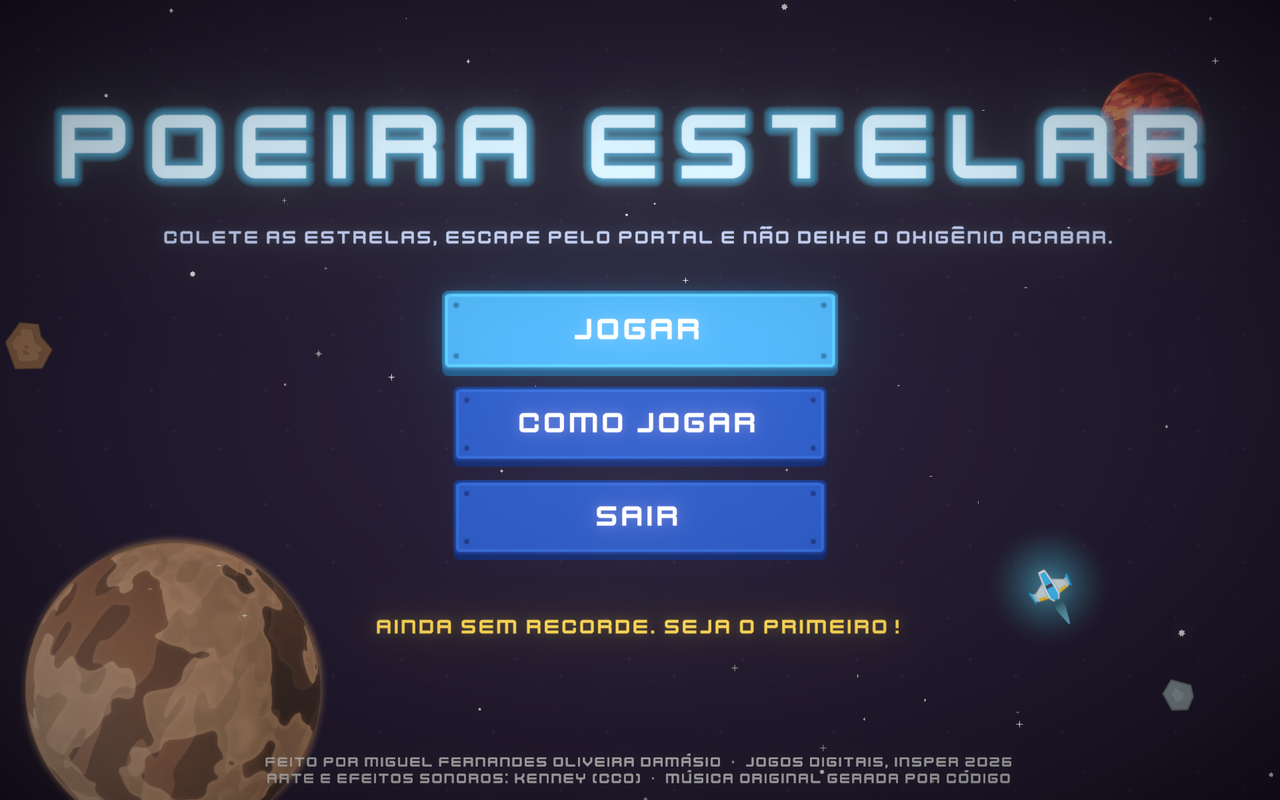
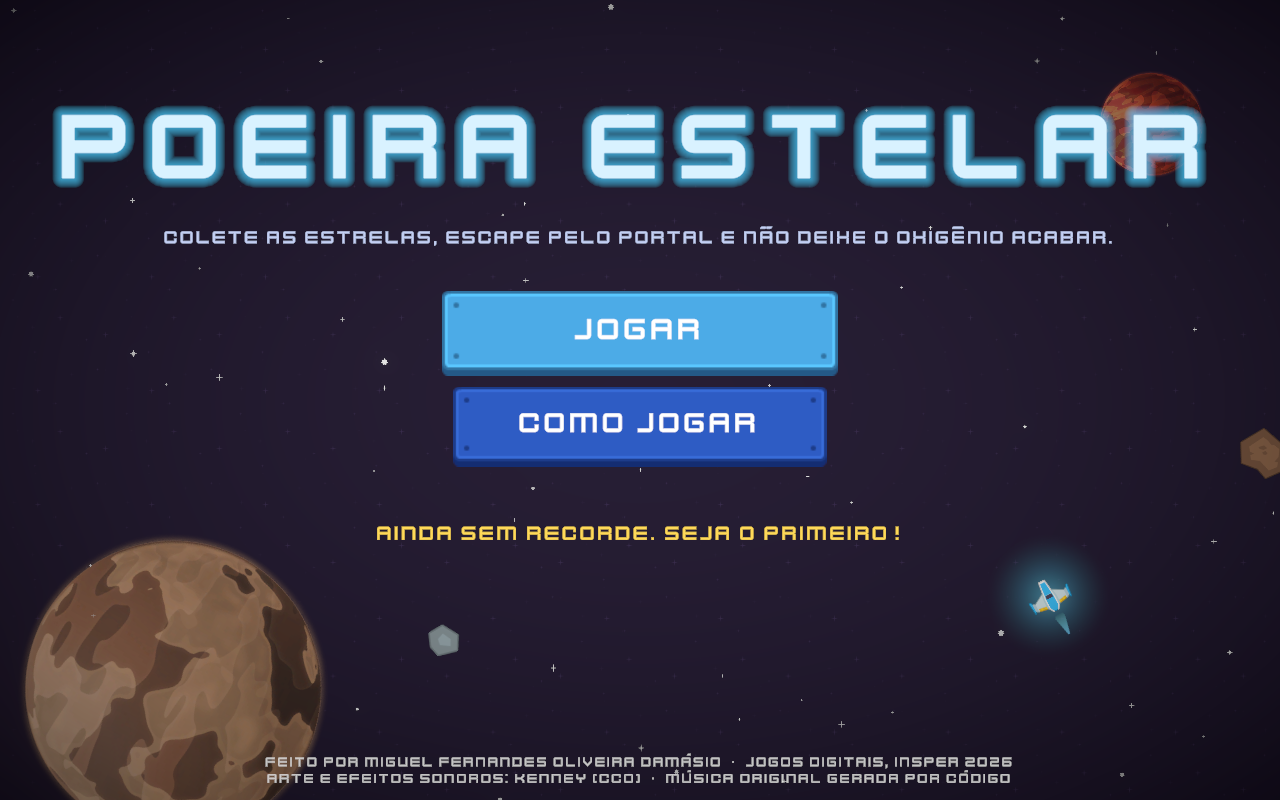
Página do itch.io, template WebGL em tela cheia e GIF de gameplay
- Template WebGL próprio: o jogo ocupa a janela inteira (sem rodapé que cortava
  o HUD no embed 960x600) e tela de carregamento no tema do jogo
- No navegador, o recorde do menu sobe para o lugar do botão Sair
- README com link do itch.io, GIF de gameplay e prints

diff --git a/Assets/WebGLTemplates/PoeiraEstelar/index.html b/Assets/WebGLTemplates/PoeiraEstelar/index.html
@@ -1,0 +1,72 @@
+<!DOCTYPE html>
+<html lang="pt-br">
+  <head>
+    <meta charset="utf-8">
+    <meta name="viewport" content="width=device-width, height=device-height, initial-scale=1.0, user-scalable=no">
+    <title>{{{ PRODUCT_NAME }}}</title>
+    <link rel="icon" type="image/png" href="TemplateData/favicon.png">
+    <style>
+      @font-face { font-family: "Kenney Future"; src: url("TemplateData/KenneyFuture.ttf"); }
+      html, body { margin: 0; padding: 0; width: 100%; height: 100%; overflow: hidden; background: #120d22; }
+      #unity-canvas { position: fixed; inset: 0; width: 100%; height: 100%; display: block; background: #120d22; outline: none; }
+      #loading {
+        position: fixed; inset: 0; display: flex; flex-direction: column; align-items: center; justify-content: center;
+        gap: 22px; background: radial-gradient(circle at 50% 45%, #2a1f4a 0%, #120d22 70%);
+        font-family: "Kenney Future", system-ui, sans-serif; color: #dff4ff; text-align: center;
+      }
+      #loading h1 { margin: 0; font-size: clamp(28px, 7vw, 64px); letter-spacing: 0.08em; text-shadow: 0 0 18px #4fc8ff; }
+      #loading p { margin: 0; font-size: clamp(11px, 2vw, 15px); color: #ffd54a; letter-spacing: 0.06em; }
+      #bar { width: min(60vw, 420px); height: 12px; border: 2px solid #5ae6ff; box-shadow: 0 0 12px #5ae6ff66; }
+      #fill { width: 0; height: 100%; background: #5ae6ff; transition: width 0.15s; }
+      #error { display: none; max-width: 80vw; color: #ff8a8a; font-family: system-ui, sans-serif; font-size: 14px; }
+    </style>
+  </head>
+  <body>
+    <canvas id="unity-canvas" tabindex="-1"></canvas>
+    <div id="loading">
+      <h1>POEIRA ESTELAR</h1>
+      <div id="bar"><div id="fill"></div></div>
+      <p>Carregando a estação...</p>
+      <div id="error"></div>
+    </div>
+    <script src="Build/{{{ LOADER_FILENAME }}}"></script>
+    <script>
+      var canvas = document.querySelector("#unity-canvas");
+      var loading = document.querySelector("#loading");
+      var fill = document.querySelector("#fill");
+
+      // Garante que o teclado vai para o jogo ao clicar (inclusive dentro do iframe do itch.io).
+      canvas.addEventListener("pointerdown", function () { canvas.focus(); });
+
+      createUnityInstance(canvas, {
+        arguments: [],
+#if PROGRESSIVE_ASSET_LOADING
+        primaryDataUrls: {{{ JSON.stringify(PRIMARY_DATA_FILES) }}},
+        secondaryDataUrls: {{{ JSON.stringify(SECONDARY_DATA_FILES) }}},
+#else
+        dataUrl: "Build/{{{ DATA_FILENAME }}}",
+#endif
+        frameworkUrl: "Build/{{{ FRAMEWORK_FILENAME }}}",
+#if USE_WASM
+        codeUrl: "Build/{{{ CODE_FILENAME }}}",
+#endif
+#if SYMBOLS_FILENAME
+        symbolsUrl: "Build/{{{ SYMBOLS_FILENAME }}}",
+#endif
+        streamingAssetsUrl: "StreamingAssets",
+        companyName: {{{ JSON.stringify(COMPANY_NAME) }}},
+        productName: {{{ JSON.stringify(PRODUCT_NAME) }}},
+        productVersion: {{{ JSON.stringify(PRODUCT_VERSION) }}},
+      }, function (progress) {
+        fill.style.width = (100 * progress) + "%";
+      }).then(function () {
+        loading.style.display = "none";
+        canvas.focus();
+      }).catch(function (message) {
+        var error = document.querySelector("#error");
+        error.style.display = "block";
+        error.textContent = "Não foi possível carregar o jogo: " + message;
+      });
+    </script>
+  </body>
+</html>

diff --git a/Assets/Scripts/UI/MainMenu.cs b/Assets/Scripts/UI/MainMenu.cs
@@ -25,8 +25,10 @@ public class MainMenu : MonoBehaviour
         backButton.onClick.AddListener(() => ShowHowTo(false));
         quitButton.onClick.AddListener(Application.Quit);
 
-        // No navegador (WebGL) não existe "sair do jogo".
-        quitButton.gameObject.SetActive(Application.platform != RuntimePlatform.WebGLPlayer);
+        // No navegador (WebGL) não existe "sair do jogo"; o recorde sobe para ocupar o lugar do botão.
+        bool web = Application.platform == RuntimePlatform.WebGLPlayer;
+        quitButton.gameObject.SetActive(!web);
+        if (web) bestTimeText.rectTransform.anchoredPosition += new Vector2(0f, 70f);
 
         float best = GameManager.BestTime;
         bestTimeText.text = best > 0f ? $"Melhor tempo: {GameManager.FormatTime(best)}" : "Ainda sem recorde. Seja o primeiro!";

diff --git a/Assets/Editor/ProjectSetup.cs b/Assets/Editor/ProjectSetup.cs
@@ -192,7 +192,7 @@ public static class ProjectSetup
         PlayerSettings.runInBackground = true;
         PlayerSettings.WebGL.compressionFormat = WebGLCompressionFormat.Gzip;
         PlayerSettings.WebGL.decompressionFallback = true;
-        PlayerSettings.WebGL.template = "APPLICATION:Default";
+        PlayerSettings.WebGL.template = "PROJECT:PoeiraEstelar";
 
         var icon = AssetDatabase.LoadAssetAtPath<Texture2D>("Assets/Art/Kenney/Ships/playerShip1_blue.png");
         PlayerSettings.SetIcons(NamedBuildTarget.Unknown, new[] { icon }, IconKind.Any);

diff --git a/README.md b/README.md
@@ -4,10 +4,14 @@ Jogo 2D feito em Unity para o **Projeto Introdução ao Unity (Tutorial)** da di
 
 **Aluno:** Miguel Fernandes Oliveira Damásio
 
-- **Jogar no navegador (itch.io):** ITCH_URL
+- **Jogar no navegador (itch.io):** https://eumiguel.itch.io/poeira-estelar
 - **Repositório:** https://github.com/EuMiguelll/poeira-estelar
 
-![Poeira Estelar](Docs/screenshot-jogo.png)
+![Gameplay de Poeira Estelar](Docs/gameplay.gif)
+
+| Menu | Portal aberto | Vitória |
+| --- | --- | --- |
+| ![Menu](Docs/screenshot-menu.png) | ![Portal](Docs/screenshot-portal.png) | ![Vitória](Docs/screenshot-fim.png) |
 
 ## Sobre o jogo
 
@@ -61,7 +65,7 @@ Todos os passos do tutorial estão no projeto:
 - `Assets/Editor`: scripts de editor que configuram os assets e montam as cenas (menu **Poeira Estelar** no Unity)
 - `Tools/gerar_musica.py`: gera a trilha sonora (synthwave em loop) a partir de código
 
-Feito com **Unity 6.6 (6000.6.4f1)**. Para gerar o build: *File > Build Profiles > Web*.
+Feito com **Unity 6.6 (6000.6.4f1)**. Para gerar o build WebGL: menu **Poeira Estelar > 4. Build WebGL** (usa o template próprio em `Assets/WebGLTemplates/PoeiraEstelar`, com o jogo ocupando a janela inteira).
 
 ## Créditos
 

diff --git a/Docs/itch-pagina.md b/Docs/itch-pagina.md
@@ -1,5 +1,7 @@
 # Texto da página no itch.io
 
+Página publicada: https://eumiguel.itch.io/poeira-estelar (enviada para a jam em 14/10/2026).
+
 **Título:** Poeira Estelar
 
 **Short description / tagline:** Colete as estrelas, escape pelo portal e não deixe o oxigênio acabar.
@@ -48,7 +50,8 @@ Sua nave ficou presa em uma estação abandonada. Colete todas as **estrelas** p
 ## Imagens
 
 - **Cover image (630 x 500):** `Docs/capa-itch.png`
-- **Screenshots:** `Docs/screenshot-menu.png`, `Docs/screenshot-jogo.png`, `Docs/screenshot-portal.png`, `Docs/screenshot-fim.png`
+- **Screenshots (nesta ordem):** `Docs/gameplay.gif`, `Docs/screenshot-jogo.png`, `Docs/screenshot-portal.png`, `Docs/screenshot-fim.png`, `Docs/screenshot-menu.png`
+- **Tema:** BG `#120d22`, BG2 `#1d1636`, texto `#e4e8ff`, links `#ffd54a`, títulos `#7fe3ff`, botões `#3b6fe0`; banner `Docs/banner-itch.png`; fundo do embed `Docs/embed-bg-itch.png`
 
 ## Upload
 
